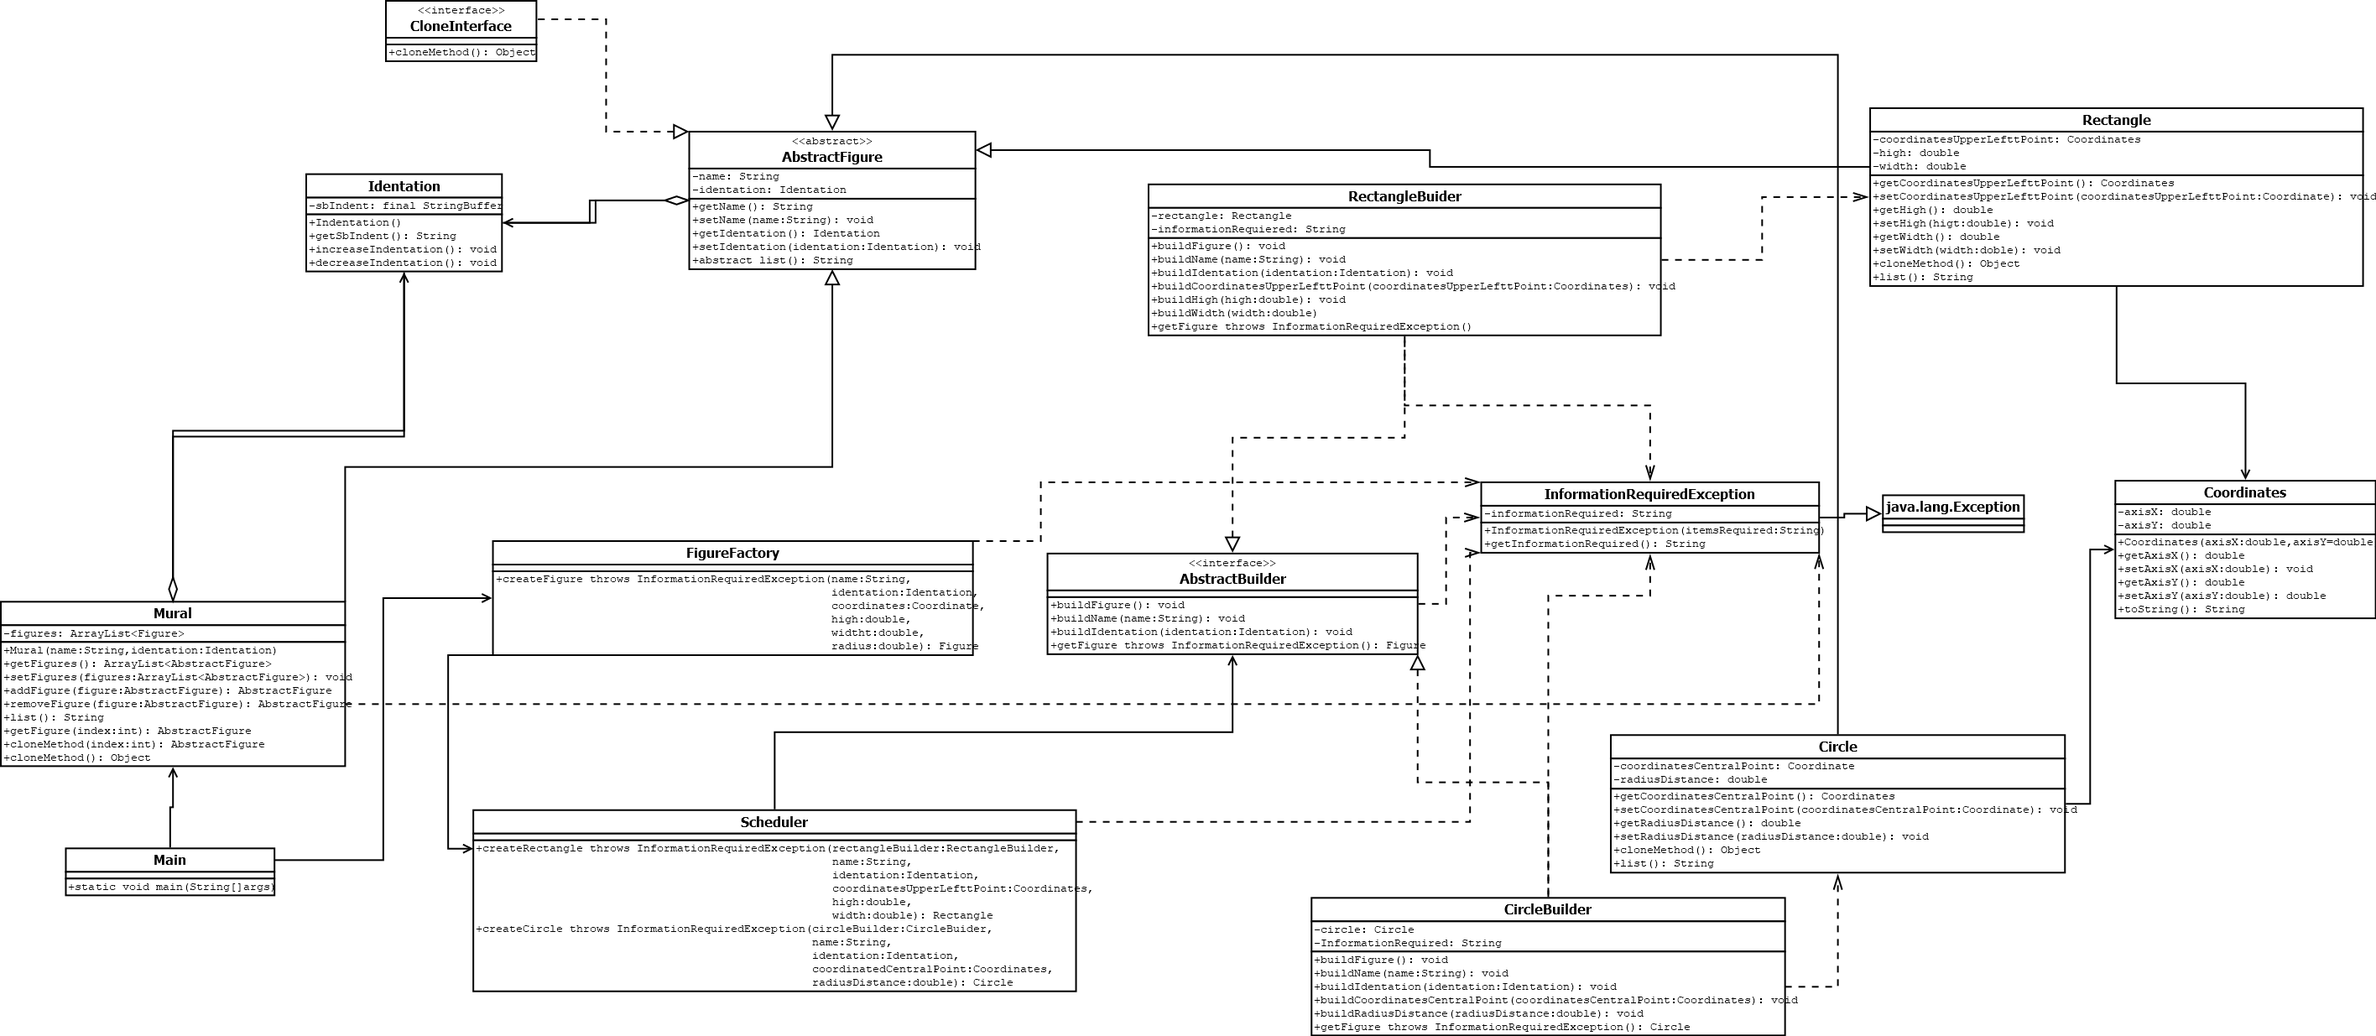
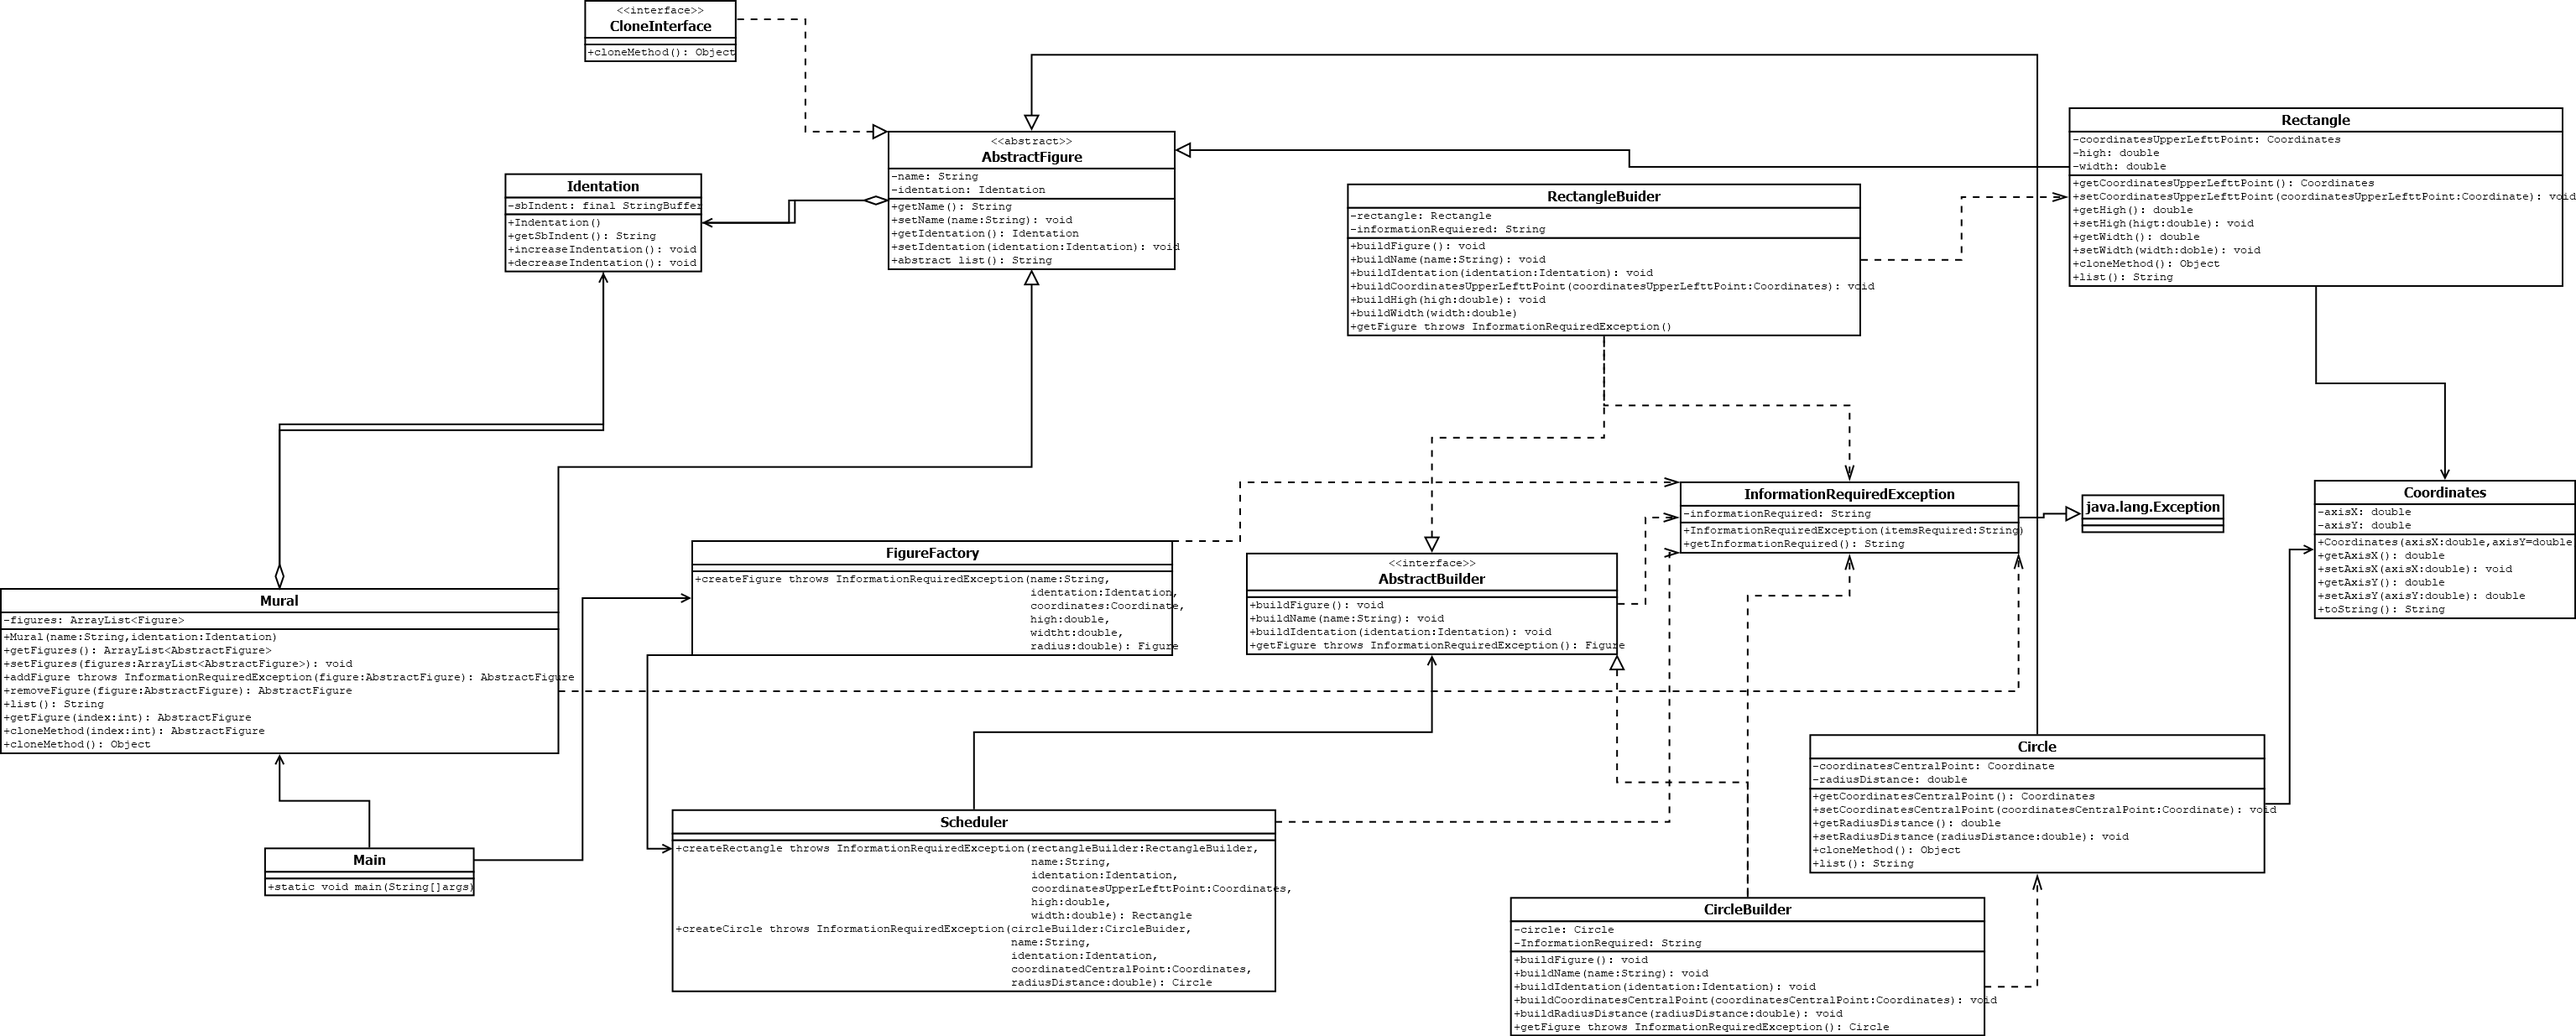
Implemente una validadacion en la clases mural, añadi una prueba a la clases main y implemente los cambios en el diagrama

diff --git a/Lab2_PatronesDeDiseño/Lab2_PatternsExercises/src/Exercise2/Main.java b/Lab2_PatronesDeDiseño/Lab2_PatternsExercises/src/Exercise2/Main.java
@@ -80,5 +80,25 @@ public class Main {
         } catch (InformationRequiredException exc) {
             System.err.println(exc.getInformationRequired());
         }
+        try {
+            Thread.sleep(100);
+            Mural mural_4 = new Mural("Mural 4", identation1);
+            Rectangle rectangle4_1 = (Rectangle) factory1.createFigure("Rectangle", identation1, new Coordinates(4, 5), 44, 44, 0);
+            Circle circle4_2 = (Circle) factory1.createFigure("Circle", identation1, new Coordinates(2, 3), 0, 0, 6);
+            mural_4.addFigure(rectangle4_1);
+            mural_4.addFigure(circle4_2);
+            System.out.println("Creating...\n" + mural_4.list());
+            Thread.sleep(100);
+            Mural mural_5 = new Mural("Mural 5", identation1);
+            Rectangle rectangle5_1 = (Rectangle) factory1.createFigure("Rectangle", identation1, new Coordinates(4, 5), 40, 50, 0);
+            mural_5.addFigure(rectangle5_1);
+            System.out.println("Creating...\n" + mural_5.list());
+
+            System.out.println("Adding mural 5 in mural 4...");
+            mural_4.addFigure(mural_5);
+        } catch (InformationRequiredException exc) {
+            System.err.println(exc.getInformationRequired());
+        } catch (Exception e) {
+        }
     }
 }

diff --git a/Lab2_PatronesDeDiseño/Lab2_PatternsExercises/src/Exercise2/Mural.java b/Lab2_PatronesDeDiseño/Lab2_PatternsExercises/src/Exercise2/Mural.java
@@ -33,8 +33,17 @@ public class Mural extends AbstractFigure {
      * @param figure the figure added
      * @return the figure added
      */
-    public AbstractFigure addFigure(AbstractFigure figure) {
-        figures.add(figure);
+    public AbstractFigure addFigure(AbstractFigure figure) throws InformationRequiredException {
+        if (figure instanceof Mural) {
+            if (((Mural) figure).getFigures().size() > 1) {
+                figures.add(figure);
+            } else {
+                throw new InformationRequiredException("The mural sent as a "
+                        + "parameter must contain at least two figures to be added");
+            }
+        } else {
+            figures.add(figure);
+        }
         return figure;
     }
 
@@ -95,7 +104,7 @@ public class Mural extends AbstractFigure {
         AbstractFigure figureTemp = null;
         while (iterator.hasNext()) {
             figureTemp = (AbstractFigure) iterator.next();
-            muralClone.addFigure((AbstractFigure) figureTemp.cloneMethod());
+            muralClone.getFigures().add((AbstractFigure) figureTemp.cloneMethod());
         }
         return muralClone;
     }
